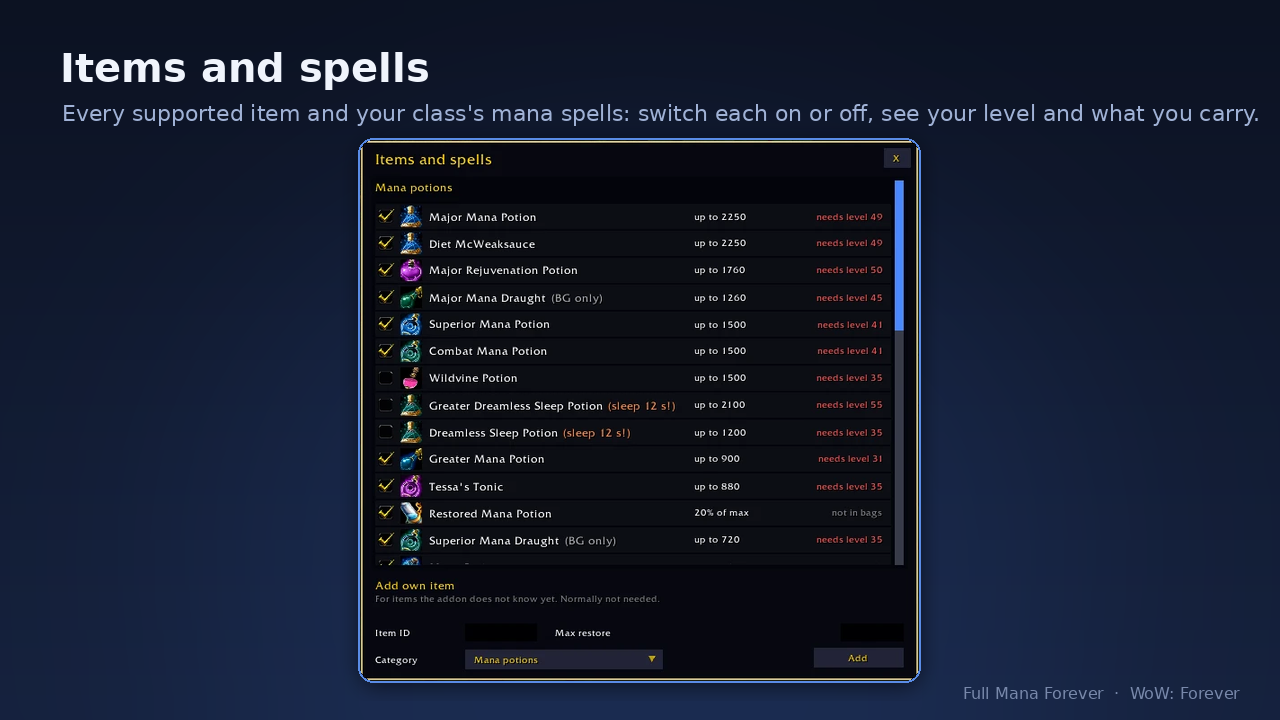
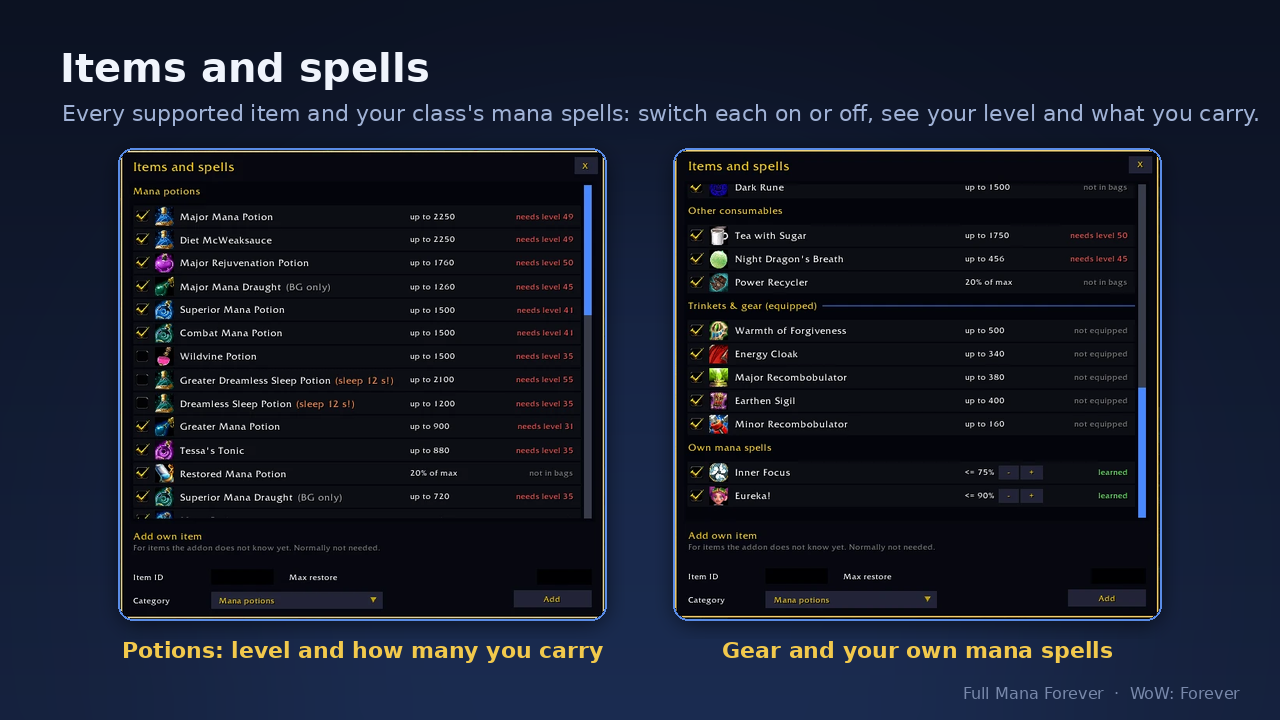
Gallery: Items and spells again with two windows (potions; gear and own spells)

diff --git a/tools/gallery.py b/tools/gallery.py
@@ -262,4 +262,5 @@ if __name__ == "__main__":
     if only("v9-07"):
         make("07_item_list.png", "Items and spells",
              "Every supported item and your class's mana spells: switch each on or off, see your level and what you carry.",
-             [(crop("images/356.webp", (818, 88, 1440, 690), 0.9), "")], top=140)
+             [(crop("images/356.webp", (818, 88, 1440, 690), 0.78), "Potions: level and how many you carry"),
+              (crop("images/364.webp", (690, 240, 1312, 842), 0.78), "Gear and your own mana spells")], top=150)
